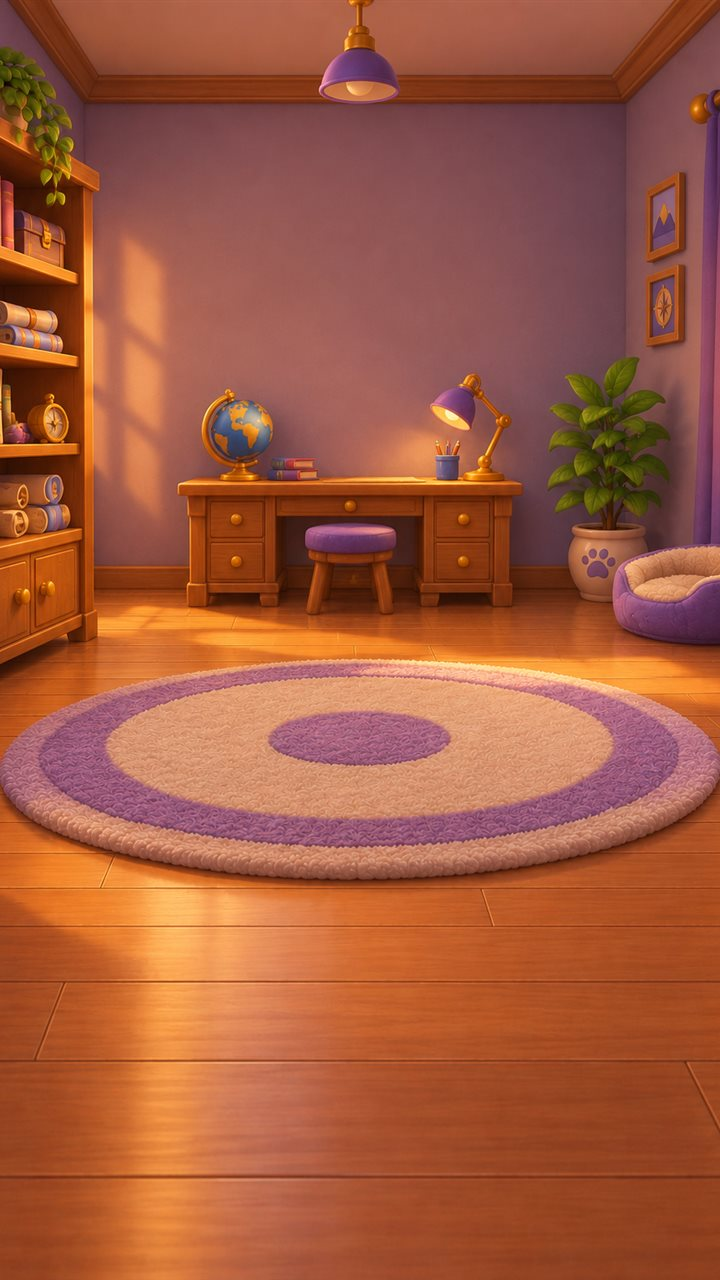
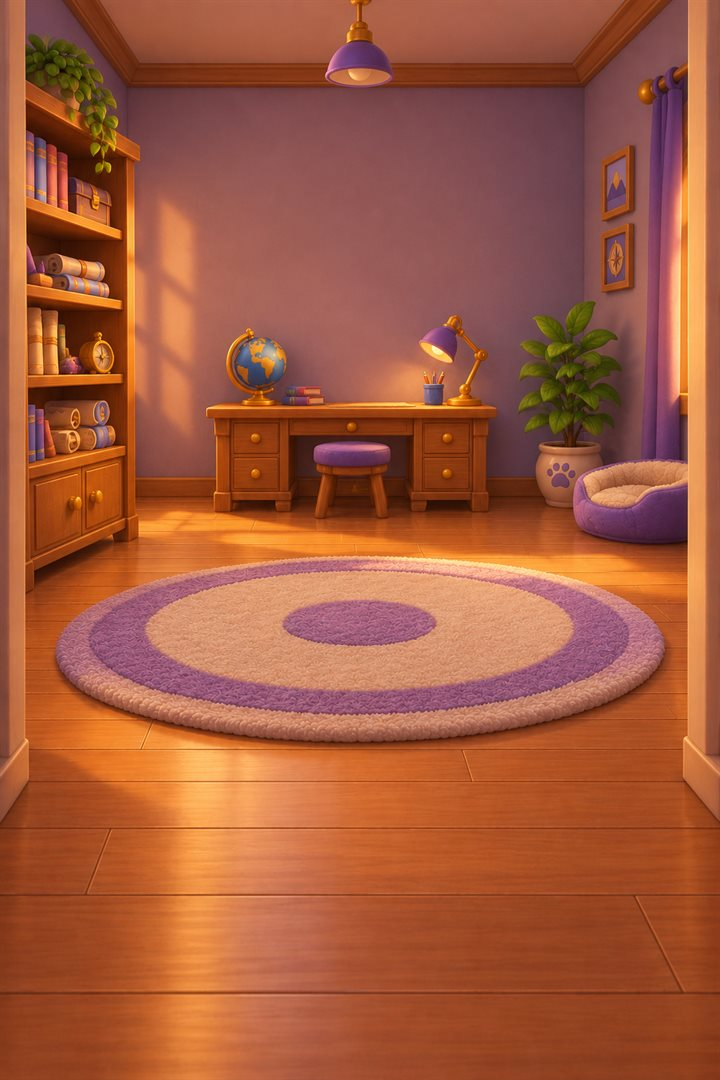
Фоны комнаты подгоняются по ширине — дверные косяки по краям не обрезаются, низ продолжает пол (tools/fit-room-bg.ps1); кот и карта на стене переставлены под новый масштаб
Claude-Session: https://claude.ai/code/session_012vQwH2wYMA6kHCxx5qAVEN

diff --git a/src/config.js b/src/config.js
@@ -296,7 +296,7 @@ export const CONFIG = {
   // Главный экран — комната кота (открывается после загрузки с map.homeFromLevel). Пока без арта.
   home: {
     titleY: 190,
-    floorY: 800,         // где стоят лапы кота (на ковре в bg_room_home); ниже — пол
+    floorY: 685,         // где стоят лапы кота (на ковре в bg_room_home); ниже — пол
     catScale: 2.6,
     catColor: 2,
     playY: 1020,
@@ -310,10 +310,10 @@ export const CONFIG = {
     flick: 9,            // px за кадр: такой быстрый взмах листает, даже если протащили меньше
     // карта на стене: окошко шириной с экран и высотой posterViewH (в координатах карты), уменьшенное в posterScale;
     // центр — на пустой стене bg_room_map
-    posterScale: 0.62,
+    posterScale: 0.56,
     posterViewH: 460,
     posterX: 362,
-    posterY: 278,
+    posterY: 243,
     frameWidth: 18,      // рамка вокруг карты на стене
     zoomDuration: 420,   // мс: карта разворачивается на весь экран и обратно
   },
